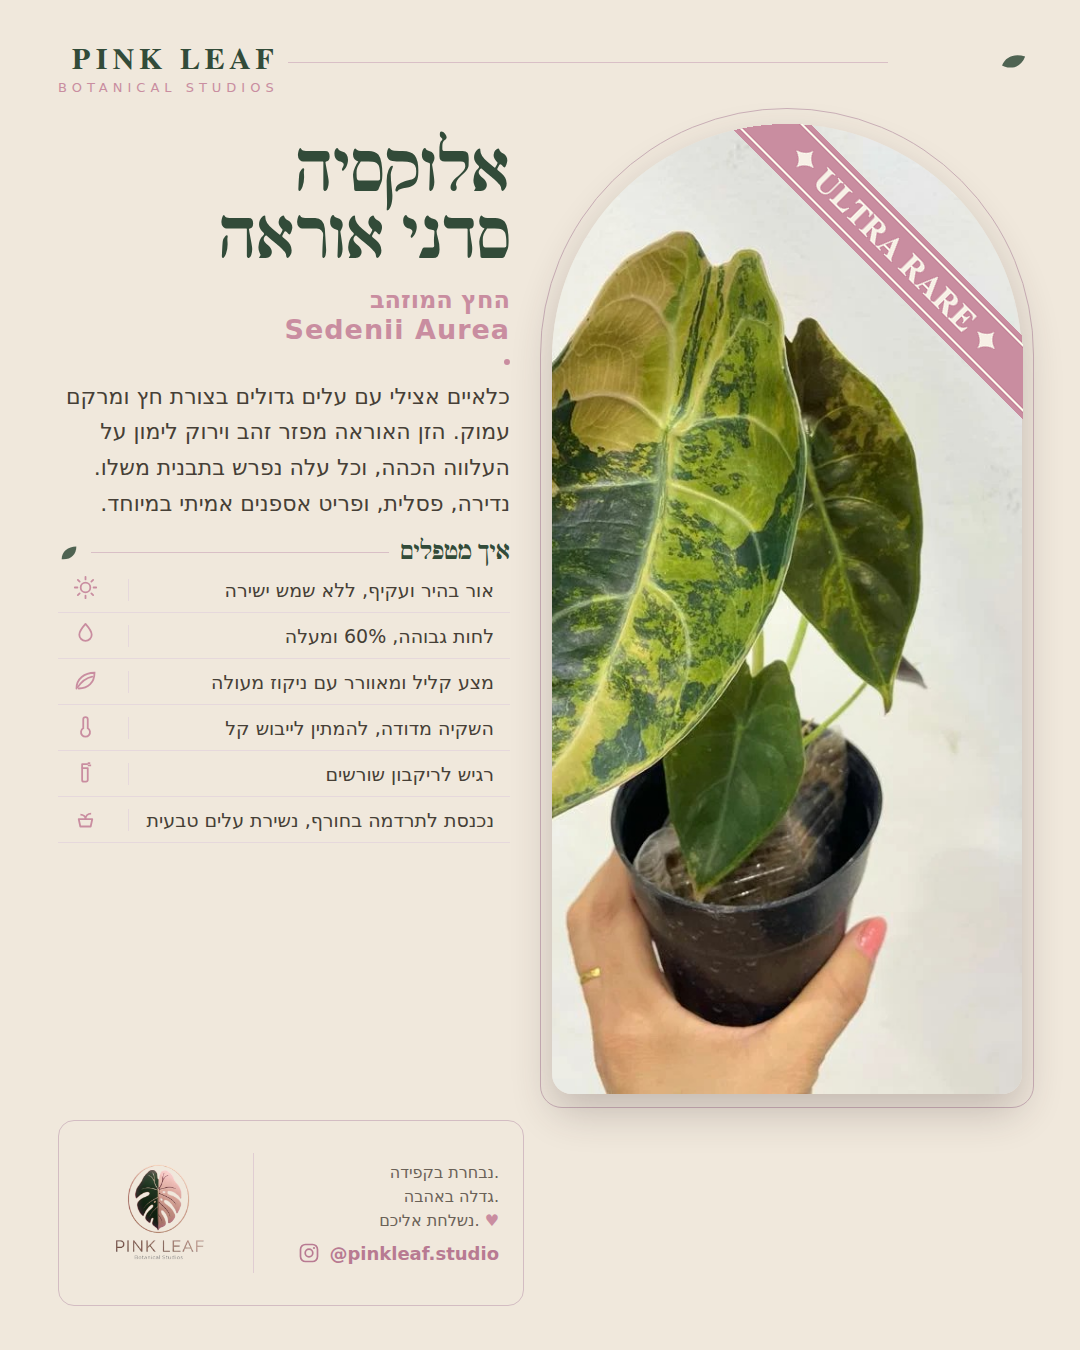
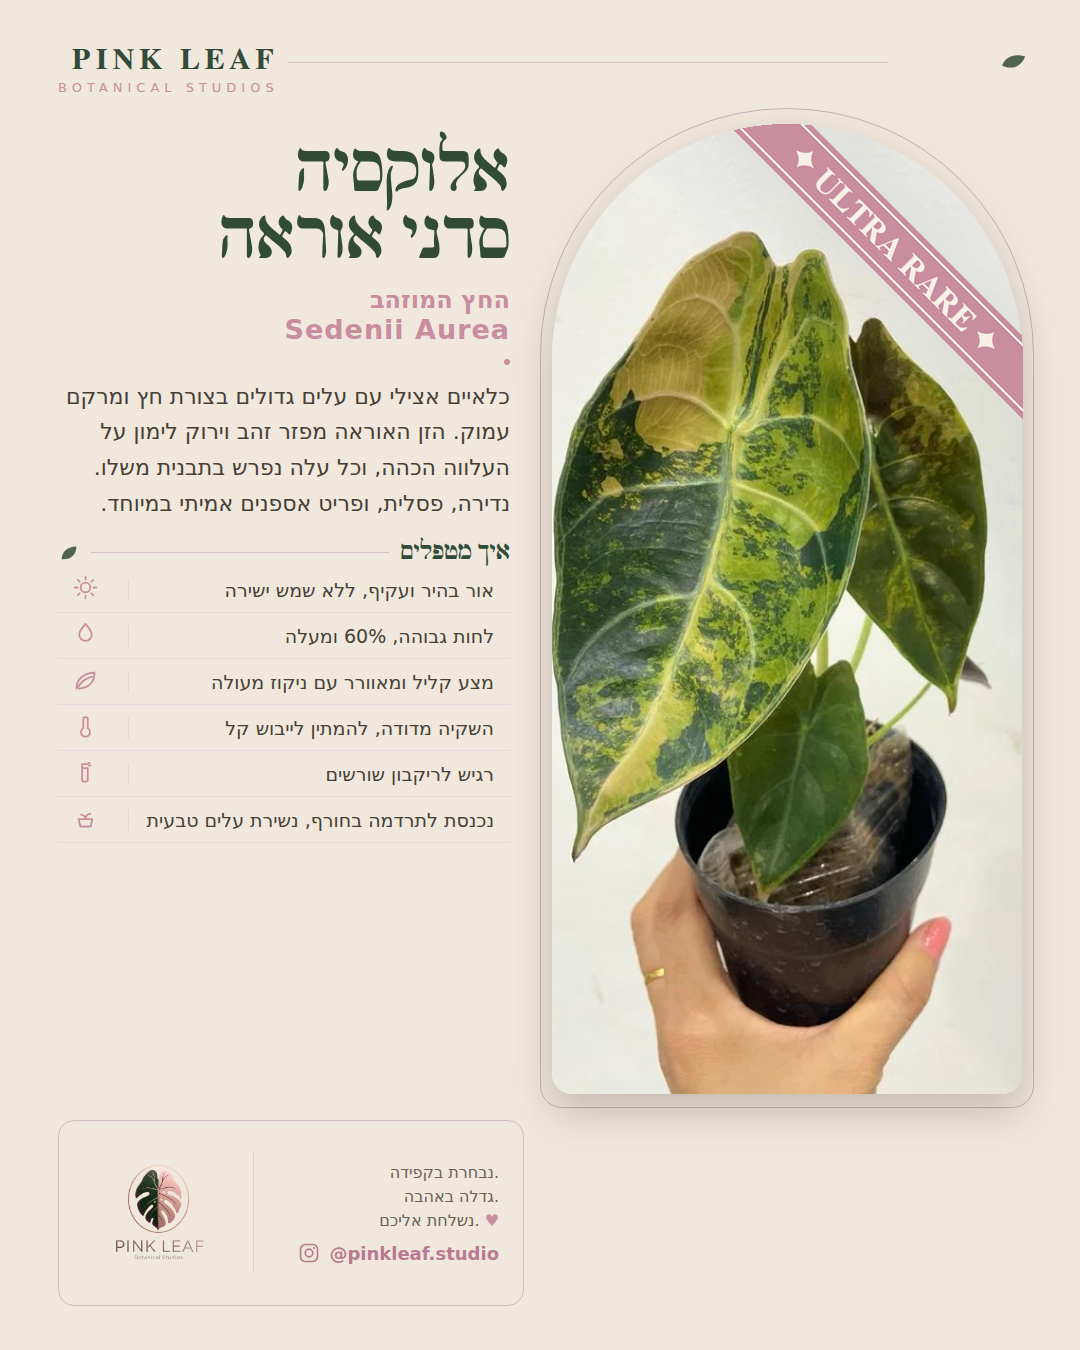
Add Metallic Blue Aurea card; shift Sedenii right; English names in captions; schedule

Changed region(s): [[0.4889, 0.1556, 0.9167, 0.8089]]

diff --git a/social-posts/captions-ultrarare.md b/social-posts/captions-ultrarare.md
@@ -1,12 +1,14 @@
 # ULTRA RARE hero-card captions (product posts)
 
+RULE: every plant caption's first line includes the ENGLISH name (Kat, always).
+
 Post the card image, paste the matching caption. Hebrew, Pink Leaf voice.
 
 ---
 
 ## Venom Pink card (Alocasia, ULTRA RARE)
 
-אלוקסיה ונום פינק 🖤🩷
+אלוקסיה ונום פינק · Alocasia Venom Pink 🖤🩷
 
 ורוד שמתפשט כמו רעל. כל עלה נפרש בתבנית משלו, ורוד רך וכסוף על ירוק עמוק, פראי ובלתי צפוי. אין שניים זהים, וזה בדיוק היופי.
 
@@ -21,7 +23,7 @@ Post the card image, paste the matching caption. Hebrew, Pink Leaf voice.
 
 ## Ocean Mint card (Monstera, ULTRA RARE)
 
-מונסטרה אושן מינט 🌊🌿
+מונסטרה אושן מינט · Monstera Ocean Mint 🌊🌿
 
 גלים של מנטה. הווריאגציה נפרשת על העלה כמו קצף ים, ירוק עמוק, מנטה רך ושמנת, עדינה ויציבה יותר מהזן הלבן. נוכחות רעננה שלא רואים כל יום.
 
@@ -36,7 +38,7 @@ ULTRA RARE, לאספנים שמחפשים את יוצא הדופן.
 
 ## Venom Aurea card (Alocasia, ULTRA RARE)
 
-אלוקסיה ונום אוראה 🖤💛
+אלוקסיה ונום אוראה · Alocasia Venom Aurea 🖤💛
 
 זהב שמתפשט כמו רעל. ונום אוראה עוטה זהב וחמאה על עלווה ירוקה עמוקה, עם ורידים כסופים, וכל עלה נפרש בתבנית משלו. אין שניים זהים, וזה בדיוק היופי.
 
@@ -51,7 +53,7 @@ ULTRA RARE, לאספנים שמחפשים את יוצא הדופן.
 
 ## Sedenii Aurea card (Alocasia, ULTRA RARE)
 
-אלוקסיה סדני אוראה 💛🌿
+אלוקסיה סדני אוראה · Alocasia Sedenii Aurea 💛🌿
 
 החץ המוזהב. עלים גדולים בצורת חץ, זהב וירוק לימון פרושים על ירוק כהה, וכל עלה בתבנית ייחודית משלו. פסלית, נדירה, בלתי נשכחת.
 

diff --git a/content/CONTENT_CALENDAR_2026-07-12.md b/content/CONTENT_CALENDAR_2026-07-12.md
@@ -19,7 +19,10 @@ photo of each.
 | Wed | 15 Jul | Venom Aurea | social-posts/15-venom-aurea.png | READY |
 | Thu | 16 Jul | Pseudo Pink | social-posts/05-pseudo-sanderiana.png | READY |
 | Fri | 17 Jul | Sedenii Aurea | social-posts/16-sedenii-aurea.png | READY |
-| Sat | 18 Jul | Metallic Blue | (needs photo) | PENDING PHOTO |
+| Sat | 18 Jul | Metallic Blue Aurea | social-posts/17-metallic-blue-aurea.png | READY |
+
+Extra cards ready to slot in / carry to the following week: Metallic Blue Albo
+(social-posts/18-metallic-blue-albo.png, in progress).
 
 Cuprea True Pink / Watsoniana True Pink: confirm if the existing Cuprea Red Secret
 (01) and Watsoniana Pink Shiny (06) cards are the same variety, or if they need
